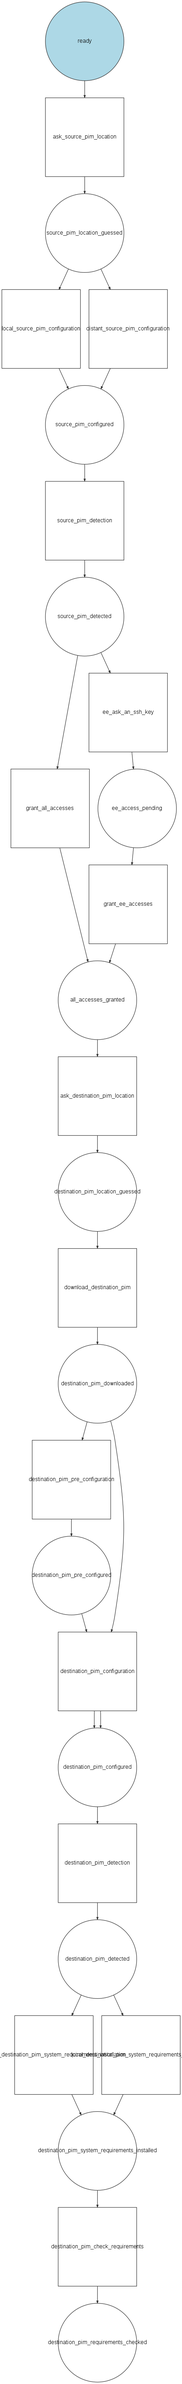
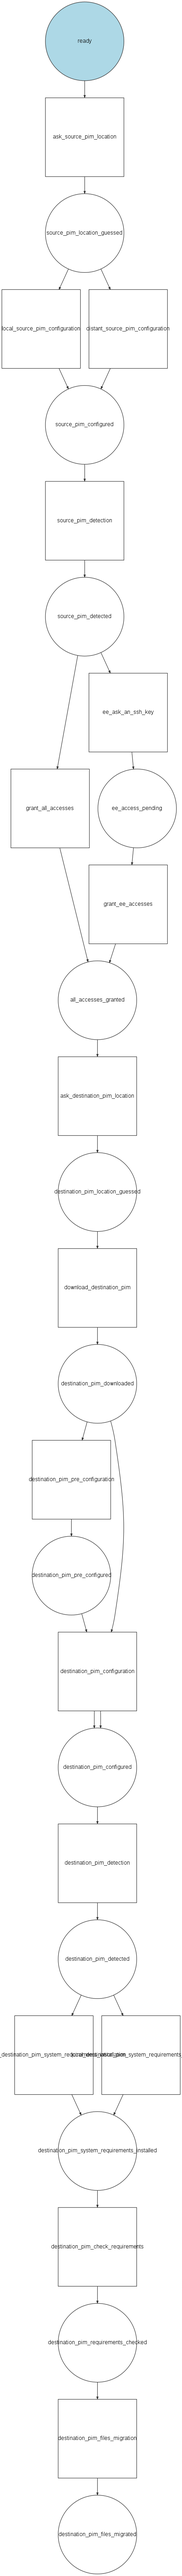
MIG-24: Add Migrate files step

diff --git a/tests/integration/Domain/FilesMigration/AkeneoFileStorageFileInfoMigratorIntegration.php b/tests/integration/Domain/FilesMigration/AkeneoFileStorageFileInfoMigratorIntegration.php
@@ -1,0 +1,119 @@
+<?php
+
+declare(strict_types=1);
+
+namespace integration\Akeneo\PimMigration\Domain\FilesMigration;
+
+use Akeneo\PimMigration\Domain\DestinationPimInstallation\DestinationPim;
+use Akeneo\PimMigration\Domain\FilesMigration\AkeneoFileStorageFileInfoMigrator;
+use Akeneo\PimMigration\Domain\SourcePimDetection\SourcePim;
+use Akeneo\PimMigration\Infrastructure\Command\UnsuccessfulCommandException;
+use Doctrine\DBAL\Configuration;
+use Doctrine\DBAL\DriverManager;
+use PHPUnit\Framework\TestCase;
+use resources\Akeneo\PimMigration\ResourcesFileLocator;
+use Symfony\Component\Process\Exception\ProcessFailedException;
+use Symfony\Component\Process\Process;
+
+/**
+ * Your Class description.
+ *
+ * @author    Anael Chardan <anael.chardan@akeneo.com>
+ * @copyright 2017 Akeneo SAS (http://www.akeneo.com)
+ */
+class AkeneoFileStorageFileInfoMigratorIntegration extends TestCase
+{
+    private $pim20ContainerName;
+    private $pim17ContainerName;
+
+    public function setUp()
+    {
+        parent::setUp();
+
+        $stepPath = realpath(ResourcesFileLocator::getStepFolder('step_six_migrate_akeneo_file_storage_file_info'));
+
+        $commandRoot = 'docker run -e MYSQL_ROOT_PASSWORD=root -e MYSQL_USER=akeneo_pim -e MYSQL_PASSWORD=akeneo_pim -e MYSQL_DATABASE=akeneo_pim -p %d:3306 -v %s:/tmp/mysqldumps -d mysql:%s';
+        $initCommand = 'docker exec %s "/tmp/mysqldumps/%s"';
+
+        $configs = [
+            [
+                'mysql_version' => '5.6',
+                'port' => 3310,
+                'init_script' => 'full_import_pim_1_7.sh',
+                'variable_name' => 'pim17ContainerName'
+            ],
+            [
+                'mysql_version' => 5.7,
+                'port' => 3311,
+                'init_script' => 'empty_import_pim_2_0.sh',
+                'variable_name' => 'pim20ContainerName'
+            ]
+        ];
+
+        foreach ($configs as $config) {
+            $bootCommand = sprintf($commandRoot, $config['port'], $stepPath, $config['mysql_version']);
+            $bootCommandResult = $this->runCommand($bootCommand);
+            $variableName = $config['variable_name'];
+            $this->$variableName = substr($bootCommandResult->getOutput(), 0, -2);
+            sleep(10);
+            $initCommandRoot = sprintf($initCommand, $this->$variableName, $config['init_script']);
+            $this->runCommand($initCommandRoot);
+            sleep(10);
+        }
+    }
+
+    public function testItCopyTheAkeneoFileStorageFileInfoTable()
+    {
+        $sourcePim = new SourcePim('localhost', 3310, 'akeneo_pim', 'akeneo_pim', 'akeneo_pim', null, null, false, null, false);
+        $destinationPim = new DestinationPim('localhost', 3311, 'akeneo_pim', 'akeneo_pim', 'akeneo_pim', false, null, 'akeneo_pim', 'localhost', '/a-path');
+
+        $akeneoFileStorageFileInfoMigrator = new AkeneoFileStorageFileInfoMigrator();
+        $akeneoFileStorageFileInfoMigrator->migrate($sourcePim, $destinationPim);
+
+        $sourcePimConnection = DriverManager::getConnection($sourcePim->getDatabaseConnectionParams(), new Configuration());
+        $destinationPimConnection = DriverManager::getConnection($destinationPim->getDatabaseConnectionParams(), new Configuration());
+
+        $sourcePimRecords = $sourcePimConnection->fetchAll('SELECT * FROM akeneo_pim.akeneo_file_storage_file_info');
+        $destinationPimRecords = $destinationPimConnection->fetchAll('SELECT * FROM akeneo_pim.akeneo_file_storage_file_info');
+
+        $this->assertEquals($sourcePimRecords, $destinationPimRecords);
+    }
+
+    public function tearDown()
+    {
+        parent::tearDown();
+
+        $shudownPim17Database = new Process(sprintf('docker stop %s', $this->pim17ContainerName));
+        $shudownPim20Database = new Process(sprintf('docker stop %s', $this->pim20ContainerName));
+
+        $shudownPim17Database->run();
+        $shudownPim20Database->run();
+
+        $removePim17Database = new Process(sprintf('docker rm --volumes %s', $this->pim17ContainerName));
+        $removePim20Database = new Process(sprintf('docker rm --volumes %s', $this->pim20ContainerName));
+
+        $removePim17Database->run();
+        $removePim20Database->run();
+    }
+
+    private function runCommand(string $command): Process
+    {
+        $process = new Process($command);
+
+        $process->setTimeout(2 * 3600);
+
+        try {
+            $process->mustRun();
+        } catch (ProcessFailedException $e) {
+            $authorizedExitCodes = [
+                129, // Hangup
+                130, // Interrupt
+            ];
+            if (!in_array($e->getProcess()->getExitCode(), $authorizedExitCodes)) {
+                throw new UnsuccessfulCommandException($e->getMessage(), $e->getCode(), $e);
+            }
+        }
+
+        return $process;
+    }
+}

diff --git a/src/Infrastructure/StateMachineTransition/FromDestinationPimRequirementsCheckedToDestinationPimFilesMigrated.php b/src/Infrastructure/StateMachineTransition/FromDestinationPimRequirementsCheckedToDestinationPimFilesMigrated.php
@@ -1,0 +1,48 @@
+<?php
+
+declare(strict_types=1);
+
+namespace Akeneo\PimMigration\Infrastructure\StateMachineTransition;
+
+use Akeneo\PimMigration\Domain\FilesMigration\AkeneoFileStorageFileInfoMigrator;
+use Akeneo\PimMigration\Infrastructure\MigrationToolStateMachine;
+use Symfony\Component\Translation\Translator;
+use Symfony\Component\Workflow\Event\Event;
+
+/**
+ * Migrate the table `akeneo_file_storage_file_info`.
+ *
+ * @author    Anael Chardan <anael.chardan@akeneo.com>
+ * @copyright 2017 Akeneo SAS (http://www.akeneo.com)
+ */
+class FromDestinationPimRequirementsCheckedToDestinationPimFilesMigrated extends AbstractStateMachineSubscriber implements StateMachineSubscriber
+{
+    /** @var AkeneoFileStorageFileInfoMigrator */
+    private $databaseFilesMigrator;
+
+    public function __construct(Translator $translator, AkeneoFileStorageFileInfoMigrator $databaseFilesMigrator)
+    {
+        parent::__construct($translator);
+        $this->databaseFilesMigrator = $databaseFilesMigrator;
+    }
+
+    /**
+     * {@inheritdoc}
+     */
+    public static function getSubscribedEvents()
+    {
+        return [
+            'workflow.migration_tool.transition.destination_pim_files_migration' => 'onDestinationPimFilesMigration',
+        ];
+    }
+
+    public function onDestinationPimFilesMigration(Event $event)
+    {
+        /** @var MigrationToolStateMachine $stateMachine */
+        $stateMachine = $event->getSubject();
+
+        $this->printerAndAsker->printMessage('Migrate your datas file');
+
+        $this->databaseFilesMigrator->migrate($stateMachine->getSourcePim(), $stateMachine->getDestinationPim());
+    }
+}

diff --git a/src/Domain/FilesMigration/AkeneoFileStorageFileInfoMigrator.php b/src/Domain/FilesMigration/AkeneoFileStorageFileInfoMigrator.php
@@ -1,0 +1,38 @@
+<?php
+
+declare(strict_types=1);
+
+namespace Akeneo\PimMigration\Domain\FilesMigration;
+
+use Akeneo\PimMigration\Domain\DestinationPimInstallation\DestinationPim;
+use Akeneo\PimMigration\Domain\SourcePimDetection\SourcePim;
+use Doctrine\DBAL\Configuration;
+use Doctrine\DBAL\DriverManager;
+use Ds\Vector;
+
+/**
+ * Migrate the `akeneo_file_storage_file_info_table`.
+ *
+ * @author    Anael Chardan <anael.chardan@akeneo.com>
+ * @copyright 2017 Akeneo SAS (http://www.akeneo.com)
+ */
+class AkeneoFileStorageFileInfoMigrator
+{
+    public function migrate(SourcePim $sourcePim, DestinationPim $destinationPim): void
+    {
+        $sourcePimConnection = DriverManager::getConnection($sourcePim->getDatabaseConnectionParams(), new Configuration());
+        $sourcePimConnection->connect();
+        $destinationPimConnection = DriverManager::getConnection($destinationPim->getDatabaseConnectionParams(), new Configuration());
+
+        $sourcePimRecords = new Vector($sourcePimConnection->fetchAll('SELECT * FROM akeneo_file_storage_file_info'));
+
+        $destinationPimConnection->connect();
+        $destinationPimQueryBuilder = $destinationPimConnection->createQueryBuilder();
+
+        $sourcePimRecords->apply(
+            function ($value) use ($destinationPimQueryBuilder) {
+                $destinationPimQueryBuilder->insert('akeneo_file_storage_file_info')->values($value);
+            }
+        );
+    }
+}
